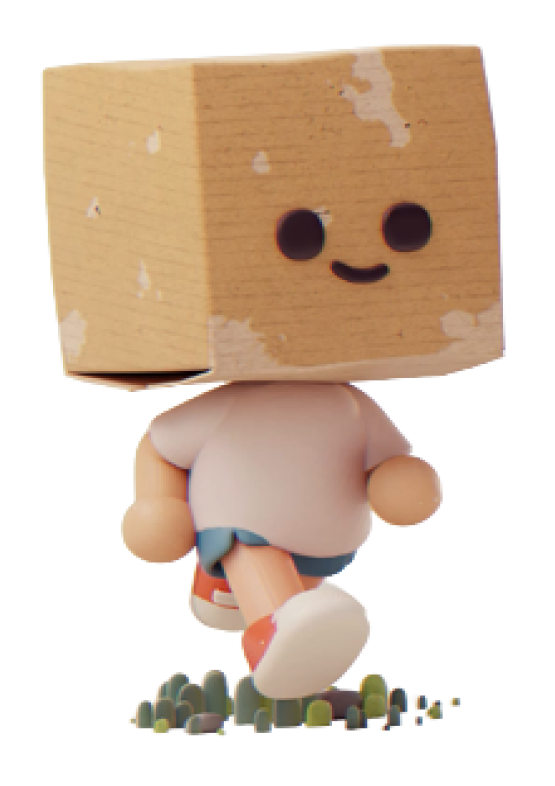
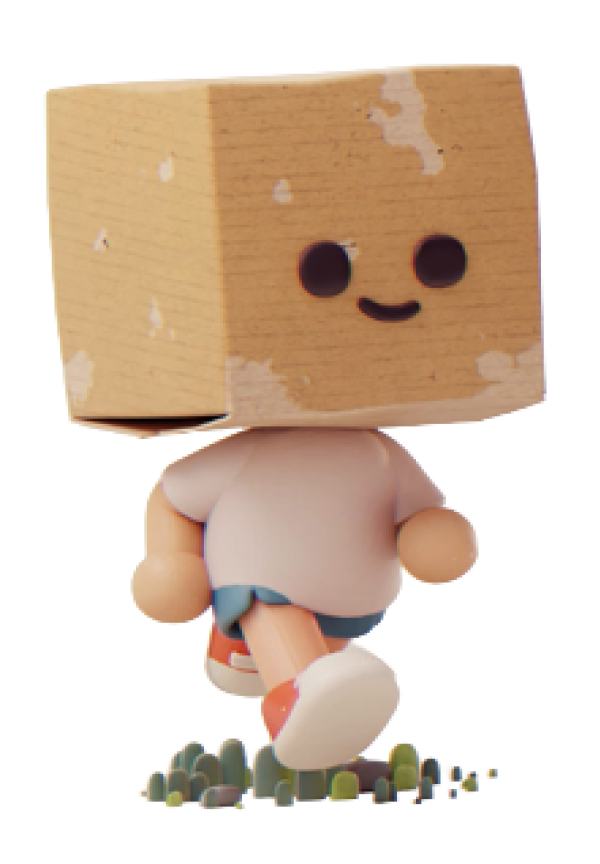
rename: userimage (in runningfriend)

diff --git a/client/src/router/Insta.jsx b/client/src/router/Insta.jsx
@@ -1,7 +1,8 @@
 import React, { useRef } from "react";
 import styled from 'styled-components';
 import html2canvas from 'html2canvas'; // HTML2Canvas 라이브러리 추가
-
+import profile from "../components/image/create_ch1.png";
+import profile2 from "../components/image/create_ch2.png";
 import Userimg from '../components/image/UserCharacter.png';
 import Friendimg from '../components/image/FriendCharacter.png';
 import Location from '../components/running_friend_insta/Location';
@@ -10,6 +11,8 @@ import Name from '../components/running_friend_insta/Name';
 import RunningInfo from "../components/running_friend_insta/RunningInfo";
 import store from '../store'; 
 import { Provider } from 'react-redux';
+import { isData } from "../atoms";
+import { useRecoilValue } from "recoil";
 
 const Container = styled.div`
     width: 395px;
@@ -72,7 +75,7 @@ const SaveButton = styled.button`
 
 function Insta() {
     const containerRef = useRef(null);
-
+    const userDB = useRecoilValue(isData);
     const handleSaveImage = () => {
         html2canvas(containerRef.current).then(canvas => {
             const link = document.createElement('a');
@@ -87,7 +90,7 @@ function Insta() {
             <Container ref={containerRef}>
                 <Rm>RUNNINGMATE</Rm>
                 <Friend src={Friendimg}/>
-                <User src={Userimg} />
+                <User src={userDB?.character ? profile : profile2} />
                 <Location />
                 <Date />
                 <Name />

diff --git a/client/src/components/running_friend/Character.jsx b/client/src/components/running_friend/Character.jsx
@@ -1,8 +1,13 @@
 import React from "react";
 import styled from "styled-components";
-import Userimg from "../image/UserCharacter.png";
+import profile from "../image/create_ch1.png";
+import profile2 from "../image/create_ch2.png";
+
 import Friendimg from "../image/FriendCharacter.png";
 import Callimg from "../image/call.png";
+
+import { isData } from "../../atoms";
+import { useRecoilValue } from "recoil";
 
 const CharacterContainer = styled.div`
   display: flex;
@@ -15,11 +20,11 @@ const CharacterContainer = styled.div`
 `;
 
 const FriendCharacter = styled.img`
-  width: 246.303px;
-  height: 300.821px;
+  width: 230px;
+  height: 260px;
   flex-shrink: 0;
   position: absolute;
-  top: 249px;
+  top: 280px;
   left: 137px;
 `;
 
@@ -30,6 +35,7 @@ const UserCharacter = styled.img`
   position: absolute;
   top: 362px;
   left: 53px;
+  
 `;
 
 const Namebox = styled.div`
@@ -95,6 +101,7 @@ const Runningmate = styled.div`
 
 
 function Character() {
+  const userDB = useRecoilValue(isData);
   return (
     <CharacterContainer>
       <Runningmate>RUNNING MATE</Runningmate>
@@ -104,7 +111,7 @@ function Character() {
       </Namebox>
       <FriendCharacter src={Friendimg} />
 
-      <UserCharacter src={Userimg} />
+      <UserCharacter src={userDB?.character ? profile : profile2}/>
     </CharacterContainer>
   );
 }

diff --git a/client/src/components/running_friend_ing/Character.jsx b/client/src/components/running_friend_ing/Character.jsx
@@ -2,8 +2,12 @@ import React from "react";
 import styled from "styled-components";
 import Userimg from "../image/UserCharacter.png";
 import Friendimg from "../image/FriendCharacter.png";
+import profile from "../image/create_ch1.png";
+import profile2 from "../image/create_ch2.png";
 import Callimg from "../image/call.png";
 import { useNavigate } from 'react-router-dom';
+import { isData } from "../../atoms";
+import { useRecoilValue } from "recoil";
 
 const User = styled.img`
     width: 211px;
@@ -66,14 +70,14 @@ const Call = styled.img`
 
 function Character (){
     const navigate = useNavigate();
-
+    const userDB = useRecoilValue(isData);
     const handleClick = () => {
         navigate("/running/friend/finish");
     }
 
     return(
         <>
-            <User src={Userimg} onClick={handleClick} />
+            <User src={userDB?.character ? profile : profile2} onClick={handleClick} />
     
             <Friend src={Friendimg} />
             <Namebox>

diff --git a/client/src/components/running_alone_ing/Character.jsx b/client/src/components/running_alone_ing/Character.jsx
@@ -2,6 +2,11 @@ import React from "react";
 import styled from "styled-components";
 import Userimg from "../image/UserCharacter.png";
 import { useNavigate } from 'react-router-dom';
+import profile from "../image/create_ch1.png";
+import profile2 from "../image/create_ch2.png";
+
+import { isData } from "../../atoms";
+import { useRecoilValue } from "recoil";
 
 const Container = styled.div`
     width:100%;
@@ -27,14 +32,14 @@ const User = styled.img`
 
 function Character (){
     const navigate = useNavigate();
-
+    const userDB = useRecoilValue(isData);
     const handleClick = () => {
         navigate("/running/alone/finish");
     }
 
     return(
         <Container>
-            <User src={Userimg} onClick={handleClick} />
+            <User src={userDB?.character ? profile : profile2} onClick={handleClick} />
         </Container>
     )
 }

diff --git a/client/src/components/running_friend_result/Character.jsx b/client/src/components/running_friend_result/Character.jsx
@@ -2,7 +2,10 @@ import React from "react";
 import styled from "styled-components";
 import Userimg from "../image/UserCharacter.png";
 import Friendimg from "../image/FriendCharacter.png";
-
+import profile from "../image/create_ch1.png";
+import profile2 from "../image/create_ch2.png";
+import { isData } from "../../atoms";
+import { useRecoilValue } from "recoil";
 const CharacterContainer = styled.div`
   display: flex;
   width: 177px;
@@ -33,12 +36,12 @@ const UserCharacter = styled.img`
 `;
 
 function Character() {
-  
+  const userDB = useRecoilValue(isData);
 
   return (
     <CharacterContainer>
       <FriendCharacter src={Friendimg}  />
-      <UserCharacter src={Userimg} />
+      <UserCharacter src={userDB?.character ? profile : profile2} />
     </CharacterContainer>
   );
 }

diff --git a/client/src/components/running_friend_finish/Character.jsx b/client/src/components/running_friend_finish/Character.jsx
@@ -2,8 +2,10 @@ import React from "react";
 import styled from "styled-components";
 import Userimg from "../image/UserCharacter.png";
 import Friendimg from "../image/FriendCharacter.png";
-
-
+import profile from "../image/create_ch1.png";
+import profile2 from "../image/create_ch2.png";
+import { isData } from "../../atoms";
+import { useRecoilValue } from "recoil";
 const CharacterContainer = styled.div`
   display: flex;
   width: 246.303px;
@@ -42,10 +44,11 @@ const UserCharacter = styled.img`
 
 
 function Character() {
+  const userDB = useRecoilValue(isData);
   return (
     <CharacterContainer>
       <FriendCharacter src={Friendimg} />
-      <UserCharacter src={Userimg} />
+      <UserCharacter src={userDB?.character ? profile : profile2} />
     </CharacterContainer>
   );
 }
